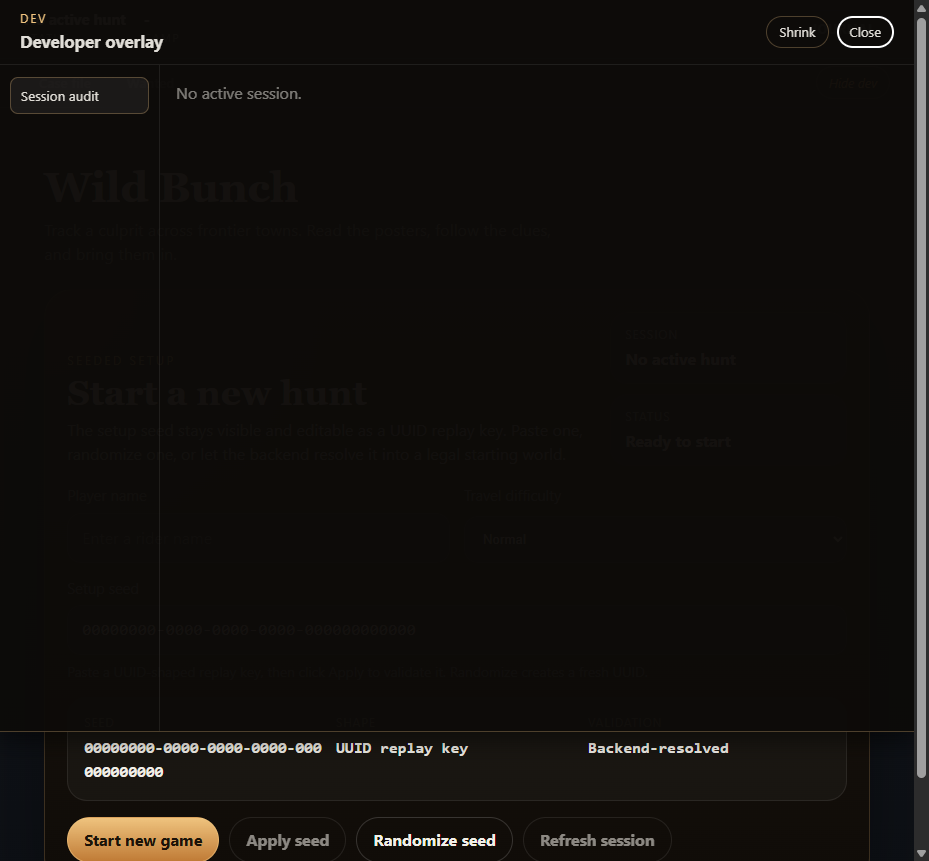
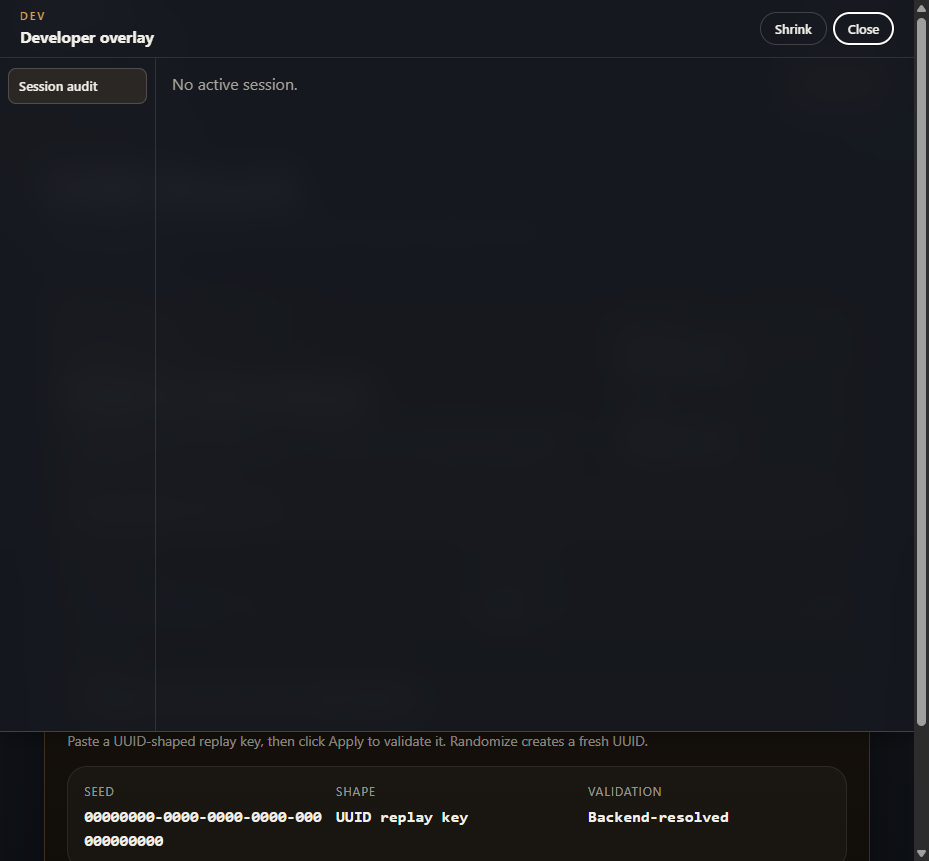
fix: revise dev overlay visual treatment to chrome-attached HUD, not modal scrim
The drawer background was nearly opaque black (rgba(12,10,8,0.97)) which read
as a modal/scrim takeover even though the play surface was technically visible.
The collapsed toggle was faint italic text that did not read as a deliberate
dev affordance.

Visual treatment changes:
- Drawer background now uses var(--bg-elevated) with backdrop-filter: blur(18px),
  matching the HUD chrome treatment so the drawer reads as an extension of the
  shell chrome, not a separate dark surface over the game.
- Drawer height reduced from 45vh to 42vh (48vh on mobile) to preserve more
  play surface below.
- Collapsed toggle is now a deliberate bordered chip with uppercase weight,
  letter-spacing, and a status dot indicator (muted when collapsed, accent
  when active). No longer faint italic text.
- Box-shadow softened from 0 8px 24px rgba(0,0,0,0.5) to 0 4px 16px
  rgba(0,0,0,0.28) so the drawer sits on the page rather than looming over it.
- Enter animation changed from translateY(-100%) slide to a subtle
  opacity + translateY(-8px) fade-in so the drawer appears rather than
  crashing down.
- SessionAuditDevPanel entries now use var(--border) and tabular-nums for
  sequence numbers.
- All transition properties are now explicit (no transition: all).
- Buttons have min-height: 32px for usable hit areas and active: scale(0.97)
  for tactile press feedback.

Backend /api/dev/, DevRoleGuard, player-vs-dev truth boundary, /debug
retirement, and panel registry are unchanged.
[…]

diff --git a/src/WildBunch.Web/src/dev/DevOverlay.tsx b/src/WildBunch.Web/src/dev/DevOverlay.tsx
@@ -86,9 +86,11 @@ export function DevOverlay({ open, onClose }: DevOverlayProps) {
 
 const slideDown = keyframes`
   from {
-    transform: translateY(-100%);
+    opacity: 0;
+    transform: translateY(-8px);
   }
   to {
+    opacity: 1;
     transform: translateY(0);
   }
 `;
@@ -98,19 +100,22 @@ const Drawer = styled.div<{ $expanded: boolean }>`
   top: 0;
   left: 0;
   right: 0;
-  height: ${(props) => (props.$expanded ? "85vh" : "45vh")};
+  height: ${(props) => (props.$expanded ? "85vh" : "42vh")};
   z-index: 1000;
   display: flex;
   flex-direction: column;
-  background: rgba(12, 10, 8, 0.97);
-  color: rgba(242, 239, 232, 0.92);
-  border-bottom: 1px solid rgba(228, 186, 126, 0.3);
-  box-shadow: 0 8px 24px rgba(0, 0, 0, 0.5);
-  animation: ${slideDown} 0.18s ease-out;
-  transition: height 0.18s ease-out;
+  background: var(--bg-elevated);
+  backdrop-filter: blur(18px);
+  color: var(--text);
+  border-bottom: 1px solid var(--border-strong);
+  box-shadow: 0 4px 16px rgba(0, 0, 0, 0.28);
+  animation: ${slideDown} 0.16s ease-out;
+  transition-property: height;
+  transition-duration: 160ms;
+  transition-timing-function: ease-out;
 
   @media (max-width: 640px) {
-    height: ${(props) => (props.$expanded ? "90vh" : "50vh")};
+    height: ${(props) => (props.$expanded ? "90vh" : "48vh")};
   }
 `;
 
@@ -118,8 +123,8 @@ const DrawerHeader = styled.header`
   display: flex;
   justify-content: space-between;
   align-items: center;
-  padding: 10px 20px;
-  border-bottom: 1px solid rgba(255, 255, 255, 0.08);
+  padding: 8px 20px;
+  border-bottom: 1px solid var(--border);
   flex-shrink: 0;
 `;
 
@@ -130,48 +135,70 @@ const TitleGroup = styled.div`
 
 const Eyebrow = styled.p`
   margin: 0;
-  color: #efc37e;
+  color: var(--accent);
   text-transform: uppercase;
   letter-spacing: 0.18em;
-  font-size: 0.72rem;
+  font-size: 0.68rem;
+  font-weight: 600;
 `;
 
 const DrawerTitle = styled.h2`
-  margin: 2px 0 0;
-  font-size: 1.05rem;
+  margin: 1px 0 0;
+  font-size: 0.98rem;
+  text-wrap: balance;
 `;
 
 const HeaderActions = styled.div`
   display: flex;
-  gap: 8px;
+  gap: 6px;
   align-items: center;
 `;
 
 const ToggleButton = styled.button`
-  padding: 5px 12px;
+  padding: 6px 14px;
   border-radius: 999px;
-  border: 1px solid rgba(228, 186, 126, 0.3);
+  border: 1px solid var(--border-strong);
   background: transparent;
-  color: rgba(242, 239, 232, 0.92);
+  color: var(--text);
   cursor: pointer;
-  font-size: 0.82rem;
+  font-size: 0.8rem;
+  font-weight: 600;
+  min-height: 32px;
+  transition-property: background-color, border-color;
+  transition-duration: 120ms;
+  transition-timing-function: ease-out;
 
   &:hover {
     background: rgba(255, 255, 255, 0.06);
+    border-color: var(--accent);
+  }
+
+  &:active {
+    transform: scale(0.97);
   }
 `;
 
 const CloseButton = styled.button`
-  padding: 5px 12px;
+  padding: 6px 14px;
   border-radius: 999px;
-  border: 1px solid rgba(228, 186, 126, 0.3);
+  border: 1px solid var(--border-strong);
   background: transparent;
-  color: rgba(242, 239, 232, 0.92);
+  color: var(--text);
   cursor: pointer;
-  font-size: 0.82rem;
+  font-size: 0.8rem;
+  font-weight: 600;
+  min-height: 32px;
+  transition-property: background-color, border-color;
+  transition-duration: 120ms;
+  transition-timing-function: ease-out;
 
   &:hover {
     background: rgba(255, 255, 255, 0.06);
+    border-color: var(--accent);
+  }
+
+  &:active {
+    transform: scale(0.97);
   }
 `;
 
@@ -189,17 +216,17 @@ const DrawerBody = styled.div`
 const Sidebar = styled.nav`
   display: flex;
   flex-direction: column;
-  gap: 4px;
-  padding: 12px 10px;
-  border-right: 1px solid rgba(255, 255, 255, 0.08);
-  min-width: 160px;
+  gap: 3px;
+  padding: 10px 8px;
+  border-right: 1px solid var(--border);
+  min-width: 156px;
   flex-shrink: 0;
 
   @media (max-width: 640px) {
     flex-direction: row;
     flex-wrap: wrap;
     border-right: none;
-    border-bottom: 1px solid rgba(255, 255, 255, 0.08);
+    border-bottom: 1px solid var(--border);
     min-width: 0;
   }
 `;
@@ -207,20 +234,31 @@ const Sidebar = styled.nav`
 const Tab = styled.button<{ $active: boolean }>`
   padding: 7px 10px;
   border-radius: 8px;
-  border: 1px solid ${(props) => (props.$active ? "rgba(228, 186, 126, 0.3)" : "transparent")};
-  background: ${(props) => (props.$active ? "rgba(255, 255, 255, 0.06)" : "transparent")};
-  color: ${(props) => (props.$active ? "rgba(242, 239, 232, 0.92)" : "rgba(242, 239, 232, 0.5)")};
+  border: 1px solid ${(props) => (props.$active ? "var(--border-strong)" : "transparent")};
+  background: ${(props) => (props.$active ? "rgba(223, 159, 79, 0.1)" : "transparent")};
+  color: ${(props) => (props.$active ? "var(--text)" : "var(--muted)")};
   text-align: left;
   cursor: pointer;
-  font-size: 0.84rem;
+  font-size: 0.82rem;
+  font-weight: ${(props) => (props.$active ? 600 : 400)};
+  min-height: 32px;
+  transition-property: background-color, color, border-color;
+  transition-duration: 100ms;
+  transition-timing-function: ease-out;
+
+  &:hover {
+    color: var(--text);
+    background: rgba(255, 255, 255, 0.04);
+  }
 `;
 
 const Content = styled.div`
   flex: 1;
   overflow: auto;
-  padding: 16px;
+  padding: 14px 16px;
 `;
 
 const MutedText = styled.p`
-  color: rgba(242, 239, 232, 0.5);
+  color: var(--muted);
+  margin: 0;
 `;

diff --git a/src/WildBunch.Web/src/shell/AppShell.tsx b/src/WildBunch.Web/src/shell/AppShell.tsx
@@ -62,18 +62,41 @@ const DevNav = styled.nav`
 `;
 
 const DevToggleButton = styled.button<{ $active: boolean }>`
-  padding: 6px 12px;
+  display: inline-flex;
+  align-items: center;
+  gap: 6px;
+  padding: 6px 14px;
   border-radius: 999px;
-  border: 1px solid ${(props) => (props.$active ? "var(--border-strong)" : "transparent")};
-  background: ${(props) => (props.$active ? "rgba(223, 159, 79, 0.12)" : "transparent")};
-  color: ${(props) => (props.$active ? "var(--accent-strong)" : "var(--muted)")};
-  font-size: 0.8rem;
-  font-style: italic;
-  transition: background 120ms ease, color 120ms ease, border-color 120ms ease;
+  border: 1px solid ${(props) => (props.$active ? "var(--accent)" : "var(--border-strong)")};
+  background: ${(props) => (props.$active ? "rgba(223, 159, 79, 0.14)" : "rgba(255, 255, 255, 0.03)")};
+  color: ${(props) => (props.$active ? "var(--accent-strong)" : "var(--text)")};
+  font-size: 0.78rem;
+  font-weight: 700;
+  letter-spacing: 0.06em;
+  text-transform: uppercase;
+  min-height: 32px;
+  cursor: pointer;
+  transition-property: background-color, border-color, color;
+  transition-duration: 120ms;
+  transition-timing-function: ease-out;
+
+  &::before {
+    content: "";
+    width: 7px;
+    height: 7px;
+    border-radius: 50%;
+    background: ${(props) => (props.$active ? "var(--accent)" : "var(--muted)")};
+    flex-shrink: 0;
+  }
 
   &:hover {
-    color: var(--text);
-    background: ${(props) => (props.$active ? "rgba(223, 159, 79, 0.18)" : "rgba(255, 255, 255, 0.05)")};
+    border-color: var(--accent);
+    background: ${(props) => (props.$active ? "rgba(223, 159, 79, 0.2)" : "rgba(223, 159, 79, 0.08)")};
+    color: ${(props) => (props.$active ? "var(--accent-strong)" : "var(--accent-strong)")};
+  }
+
+  &:active {
+    transform: scale(0.97);
   }
 `;
 

diff --git a/src/WildBunch.Web/src/dev/panels/SessionAuditDevPanel.tsx b/src/WildBunch.Web/src/dev/panels/SessionAuditDevPanel.tsx
@@ -44,38 +44,40 @@ export function SessionAuditDevPanel() {
 
 const AuditList = styled.div`
   display: grid;
-  gap: 6px;
+  gap: 5px;
 `;
 
 const AuditEntry = styled.div`
   display: grid;
   grid-template-columns: auto auto 1fr;
   gap: 10px;
-  padding: 8px 12px;
+  padding: 7px 12px;
   border-radius: 8px;
-  background: rgba(255, 255, 255, 0.03);
-  border: 1px solid rgba(255, 255, 255, 0.08);
-  font-size: 0.82rem;
+  background: rgba(255, 255, 255, 0.025);
+  border: 1px solid var(--border);
+  font-size: 0.8rem;
 `;
 
 const Sequence = styled.span`
-  color: rgba(242, 239, 232, 0.5);
+  color: var(--muted);
   font-variant-numeric: tabular-nums;
 `;
 
 const EventType = styled.span`
-  color: #efc37e;
+  color: var(--accent);
   font-weight: 600;
 `;
 
 const Summary = styled.span`
-  color: rgba(242, 239, 232, 0.92);
+  color: var(--text);
 `;
 
 const MutedText = styled.p`
-  color: rgba(242, 239, 232, 0.5);
+  color: var(--muted);
+  margin: 0;
 `;
 
 const ErrorText = styled.p`
-  color: #f07e6e;
+  color: var(--danger);
+  margin: 0;
 `;
